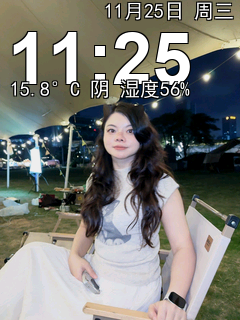
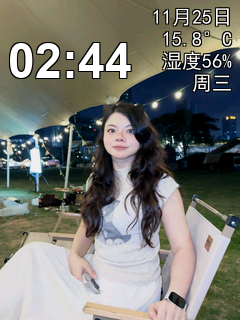
版面调整：48px 时钟下移避屏框；右侧一列温度/湿度/星期；日期只留月日

Changed region(s): [[0.0292, 0.0, 0.9917, 0.3125]]

diff --git a/xes/xiaozhi/main/display/clock_panel.cc b/xes/xiaozhi/main/display/clock_panel.cc
@@ -223,7 +223,7 @@ void ClockPanel::Create(lv_obj_t* screen, const lv_font_t* cjk_font, bool has_bi
     (void)cjk_font;
     (void)has_big_font;
     const lv_font_t* text_font = (const lv_font_t*)&font_cjk20;
-    big_font_ = (const lv_font_t*)&font_clock72;
+    big_font_ = (const lv_font_t*)&clock48;   /* 48px 数字，比 72 小一号 */
     cjk_font_ = text_font;
 
     if (s_weather_mutex == nullptr) {
@@ -245,32 +245,42 @@ void ClockPanel::Create(lv_obj_t* screen, const lv_font_t* cjk_font, bool has_bi
 
     /* 全部塞在屏幕最上方（人物头顶以上），下面整片留给小智的表情/对话文字
        版面：日期在右上角，大时钟在下面靠左，温度/天气/湿度在大时钟下面 */
-    date_label_ = *NewLabel(screen, cjk_font_, LV_ALIGN_TOP_LEFT, 0, 0);
+    /* 版面：
+       第一行：日期“11月25日”靠右上角
+       右侧一列（从上到下）：温度 → 湿度 → 星期
+       左侧：时钟（48px），位置往下挪，不让屏幕白边压住 */
+    date_label_ = *NewLabel(screen, cjk_font_, LV_ALIGN_TOP_LEFT, 0, 6);
     /* 日期靠右：整行满宽 + 右对齐，避免文字比标签宽时右边被裁掉 */
     {
         lv_obj_t* objs[5] = {date_label_.main, date_label_.shadow[0], date_label_.shadow[1],
                              date_label_.shadow[2], date_label_.shadow[3]};
         const int ox[5] = {0, -1, 1, -1, 1};
-        const int oy[5] = {0, -1, -1, 1, 1};
+        const int oy[5] = {6, 5, 5, 7, 7};
         for (int i = 0; i < 5; i++) {
             lv_obj_set_width(objs[i], WALLPAPER_W);
             lv_obj_set_style_text_align(objs[i], LV_TEXT_ALIGN_RIGHT, 0);
-            lv_obj_set_style_pad_right(objs[i], 6, 0);
+            lv_obj_set_style_pad_right(objs[i], 8, 0);
             lv_obj_set_pos(objs[i], ox[i], oy[i]);
         }
     }
-    time_label_ = *NewLabel(screen, big_font_, LV_ALIGN_TOP_LEFT, 8, 18);
-    weather_label_ = *NewLabel(screen, cjk_font_, LV_ALIGN_TOP_LEFT, 10, 78);
+    temp_label_ = *NewLabel(screen, cjk_font_, LV_ALIGN_TOP_RIGHT, -8, 28);
+    humi_label_ = *NewLabel(screen, cjk_font_, LV_ALIGN_TOP_RIGHT, -8, 50);
+    week_label_ = *NewLabel(screen, cjk_font_, LV_ALIGN_TOP_RIGHT, -8, 72);
+    time_label_ = *NewLabel(screen, big_font_, LV_ALIGN_TOP_LEFT, 8, 34);
 
     /* 把所有新对象挪到最底层（壁纸 0，其余依次），保证小智的表情和字幕在它们上面 */
     lv_obj_move_to_index(bg_, 0);
     lv_obj_move_to_index(time_label_.main, 1);
     lv_obj_move_to_index(date_label_.main, 1);
-    lv_obj_move_to_index(weather_label_.main, 1);
+    lv_obj_move_to_index(temp_label_.main, 1);
+    lv_obj_move_to_index(humi_label_.main, 1);
+    lv_obj_move_to_index(week_label_.main, 1);
     for (int i = 0; i < 4; i++) {
         lv_obj_move_to_index(time_label_.shadow[i], 1);
         lv_obj_move_to_index(date_label_.shadow[i], 1);
-        lv_obj_move_to_index(weather_label_.shadow[i], 1);
+        lv_obj_move_to_index(temp_label_.shadow[i], 1);
+        lv_obj_move_to_index(humi_label_.shadow[i], 1);
+        lv_obj_move_to_index(week_label_.shadow[i], 1);
     }
 
     created_ = true;
@@ -294,20 +304,12 @@ void ClockPanel::Tick() {
             char buf[16];
             strftime(buf, sizeof(buf), "%H:%M", &tm_now);
             SetText(&time_label_, buf);
-            {
-                lv_font_glyph_dsc_t gd = {};
-                bool g1 = lv_font_get_glyph_dsc(big_font_, &gd, '1', 0);
-                ESP_LOGI(TAG, "time '%s' label pos=(%d,%d) size=%dx%d lh=%d glyph'1'=%d box=%dx%d",
-                         buf, (int)lv_obj_get_x(time_label_.main), (int)lv_obj_get_y(time_label_.main),
-                         (int)lv_obj_get_width(time_label_.main), (int)lv_obj_get_height(time_label_.main),
-                         (int)big_font_->line_height, (int)g1, (int)gd.box_w, (int)gd.box_h);
-            }
 
             static const char* week[] = {"周日", "周一", "周二", "周三", "周四", "周五", "周六"};
-            char date[32];
-            snprintf(date, sizeof(date), "%d月%d日 %s", tm_now.tm_mon + 1, tm_now.tm_mday,
-                     week[tm_now.tm_wday]);
+            char date[24];
+            snprintf(date, sizeof(date), "%d月%d日", tm_now.tm_mon + 1, tm_now.tm_mday);
             SetText(&date_label_, date);
+            SetText(&week_label_, week[tm_now.tm_wday]);
         }
     } else {
         static int dots = 0;
@@ -319,16 +321,15 @@ void ClockPanel::Tick() {
 
     if (s_weather_mutex != nullptr && xSemaphoreTake(s_weather_mutex, 0) == pdTRUE) {
         int t = s_temp_x10, h = s_humi;
-        char w[24];
-        strncpy(w, s_weather, sizeof(w) - 1);
-        w[sizeof(w) - 1] = '\0';
         bool ok = s_weather_ok;
         xSemaphoreGive(s_weather_mutex);
         if (ok) {
-            /* 温度、天气、湿度合并成一行，省空间又不挡人物 */
-            char buf[64];
-            snprintf(buf, sizeof(buf), "%d.%d°C %s 湿度%d%%", t / 10, abs(t % 10), w, h);
-            SetText(&weather_label_, buf);
+            /* 右侧一列：温度在上，湿度在下（星期在它们下面，由时间分支更新） */
+            char buf[24];
+            snprintf(buf, sizeof(buf), "%d.%d°C", t / 10, abs(t % 10));
+            SetText(&temp_label_, buf);
+            snprintf(buf, sizeof(buf), "湿度%d%%", h);
+            SetText(&humi_label_, buf);
         }
     }
 }

diff --git a/xes/mock4.py b/xes/mock4.py
@@ -1,0 +1,17 @@
+from PIL import Image, ImageDraw, ImageFont
+W,H=240,320
+bg=Image.open(r"C:\Users\Administrator\Doubao\chats\2026-11-24\new-chat\壁纸原图.png").convert("RGB").resize((W,H))
+ft=ImageFont.truetype(r"C:\Windows\Fonts\arialbd.ttf",48)
+fc=ImageFont.truetype(r"C:\Windows\Fonts\simhei.ttf",20)
+d=ImageDraw.Draw(bg)
+def ol(x,y,t,f,a="la"):
+    for dx,dy in((-1,-1),(1,-1),(-1,1),(1,1)):
+        d.text((x+dx,y+dy),t,font=f,fill=(0,0,0),anchor=a)
+    d.text((x,y),t,font=f,fill=(255,255,255),anchor=a)
+ol(W-8,6,"11月25日",fc,"ra")
+ol(W-8,28,"15.8°C",fc,"ra")
+ol(W-8,50,"湿度56%",fc,"ra")
+ol(W-8,72,"周三",fc,"ra")
+ol(8,34,"02:44",ft,"la")
+bg.save(r"C:\Users\Administrator\Doubao\chats\2026-11-24\new-chat\时钟效果预览.png")
+print("ok")

diff --git a/xes/mock3.py b/xes/mock3.py
@@ -1,0 +1,15 @@
+from PIL import Image, ImageDraw, ImageFont
+W,H=240,320
+bg=Image.open(r"C:\Users\Administrator\Doubao\chats\2026-11-24\new-chat\壁纸原图.png").convert("RGB").resize((W,H))
+ft=ImageFont.truetype(r"C:\Windows\Fonts\arialbd.ttf",72)
+fc=ImageFont.truetype(r"C:\Windows\Fonts\simhei.ttf",20)
+d=ImageDraw.Draw(bg)
+def ol(x,y,t,f,a="la"):
+    for dx,dy in((-1,-1),(1,-1),(-1,1),(1,1)):
+        d.text((x+dx,y+dy),t,font=f,fill=(0,0,0),anchor=a)
+    d.text((x,y),t,font=f,fill=(255,255,255),anchor=a)
+ol(W-6,0,"11月25日周三",fc,"ra")
+ol(8,18,"10:42",ft,"la")
+ol(10,78,"15.8°C 阴 湿度56%",fc,"la")
+bg.save(r"C:\Users\Administrator\Doubao\chats\2026-11-24\new-chat\时钟效果预览.png")
+print("ok")

diff --git a/xes/xiaozhi/main/display/clock_panel.h b/xes/xiaozhi/main/display/clock_panel.h
@@ -39,8 +39,8 @@ private:
     OutlinedLabel time_label_;
     OutlinedLabel date_label_;
     OutlinedLabel temp_label_;
-    OutlinedLabel weather_label_;
     OutlinedLabel humi_label_;
+    OutlinedLabel week_label_;
 
     int last_min_ = -1;
     int last_temp_x10_ = -9999;
